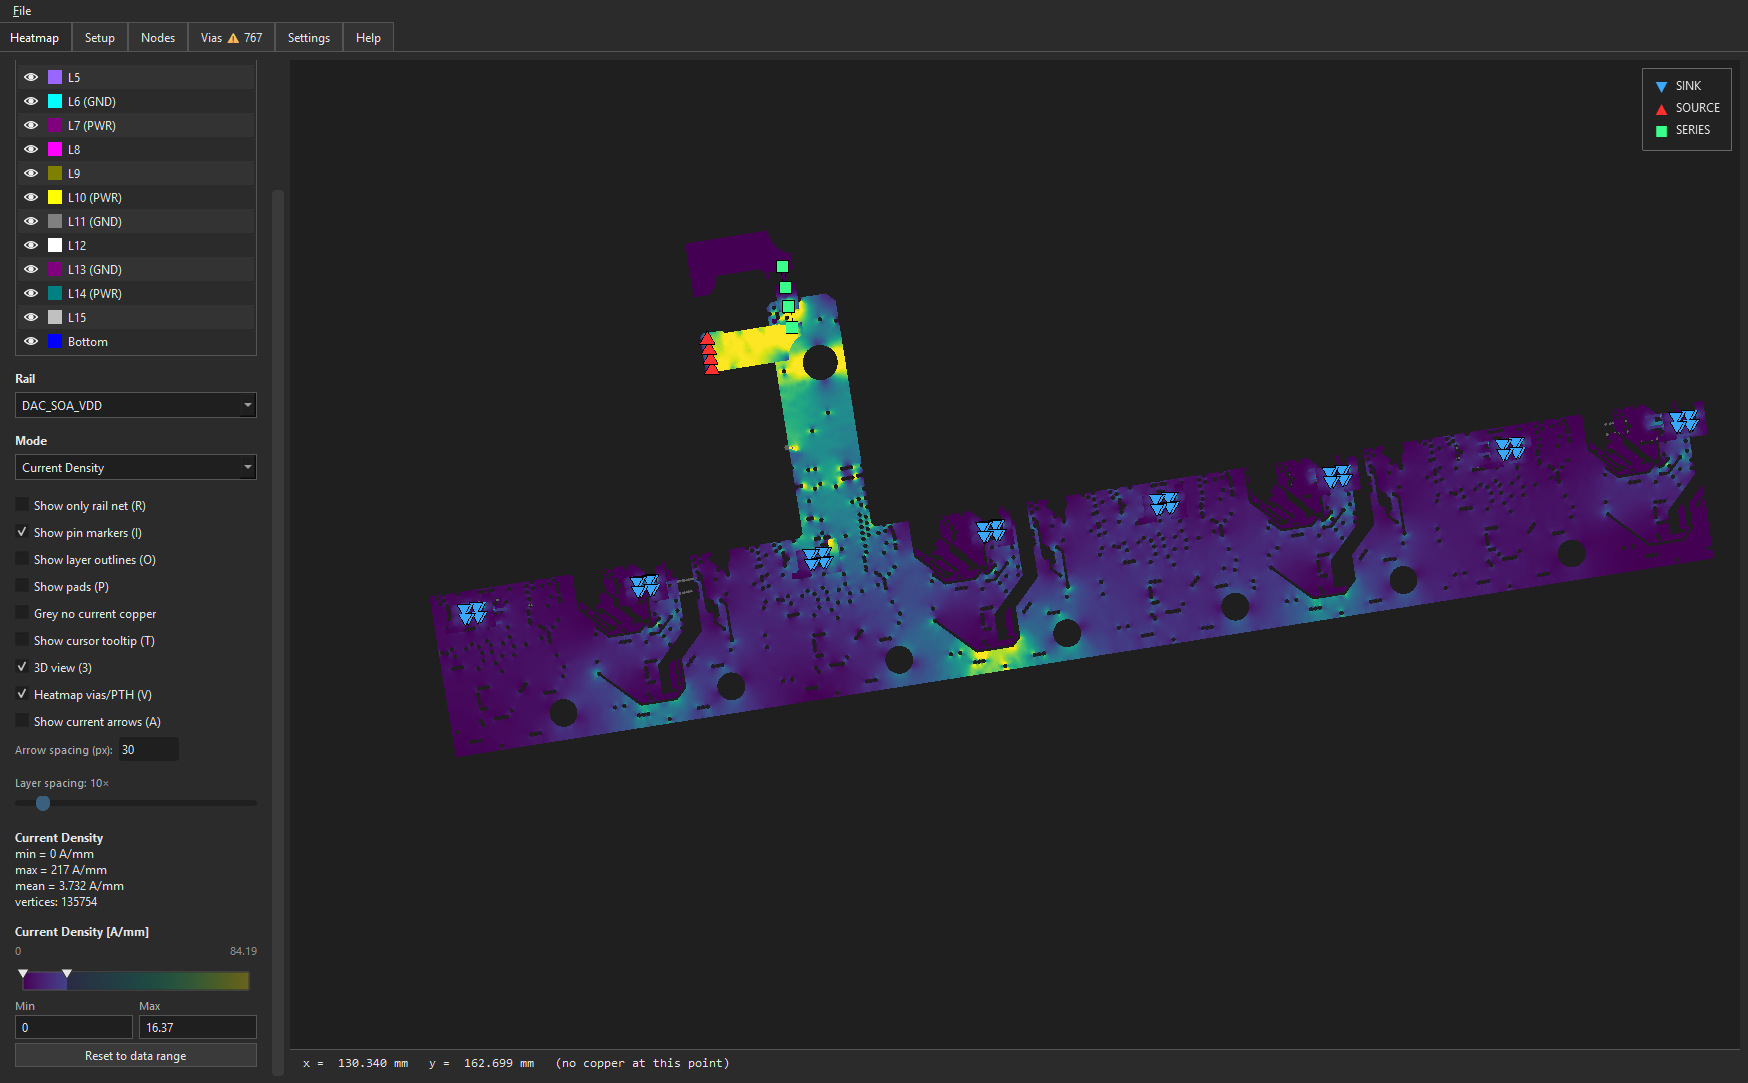
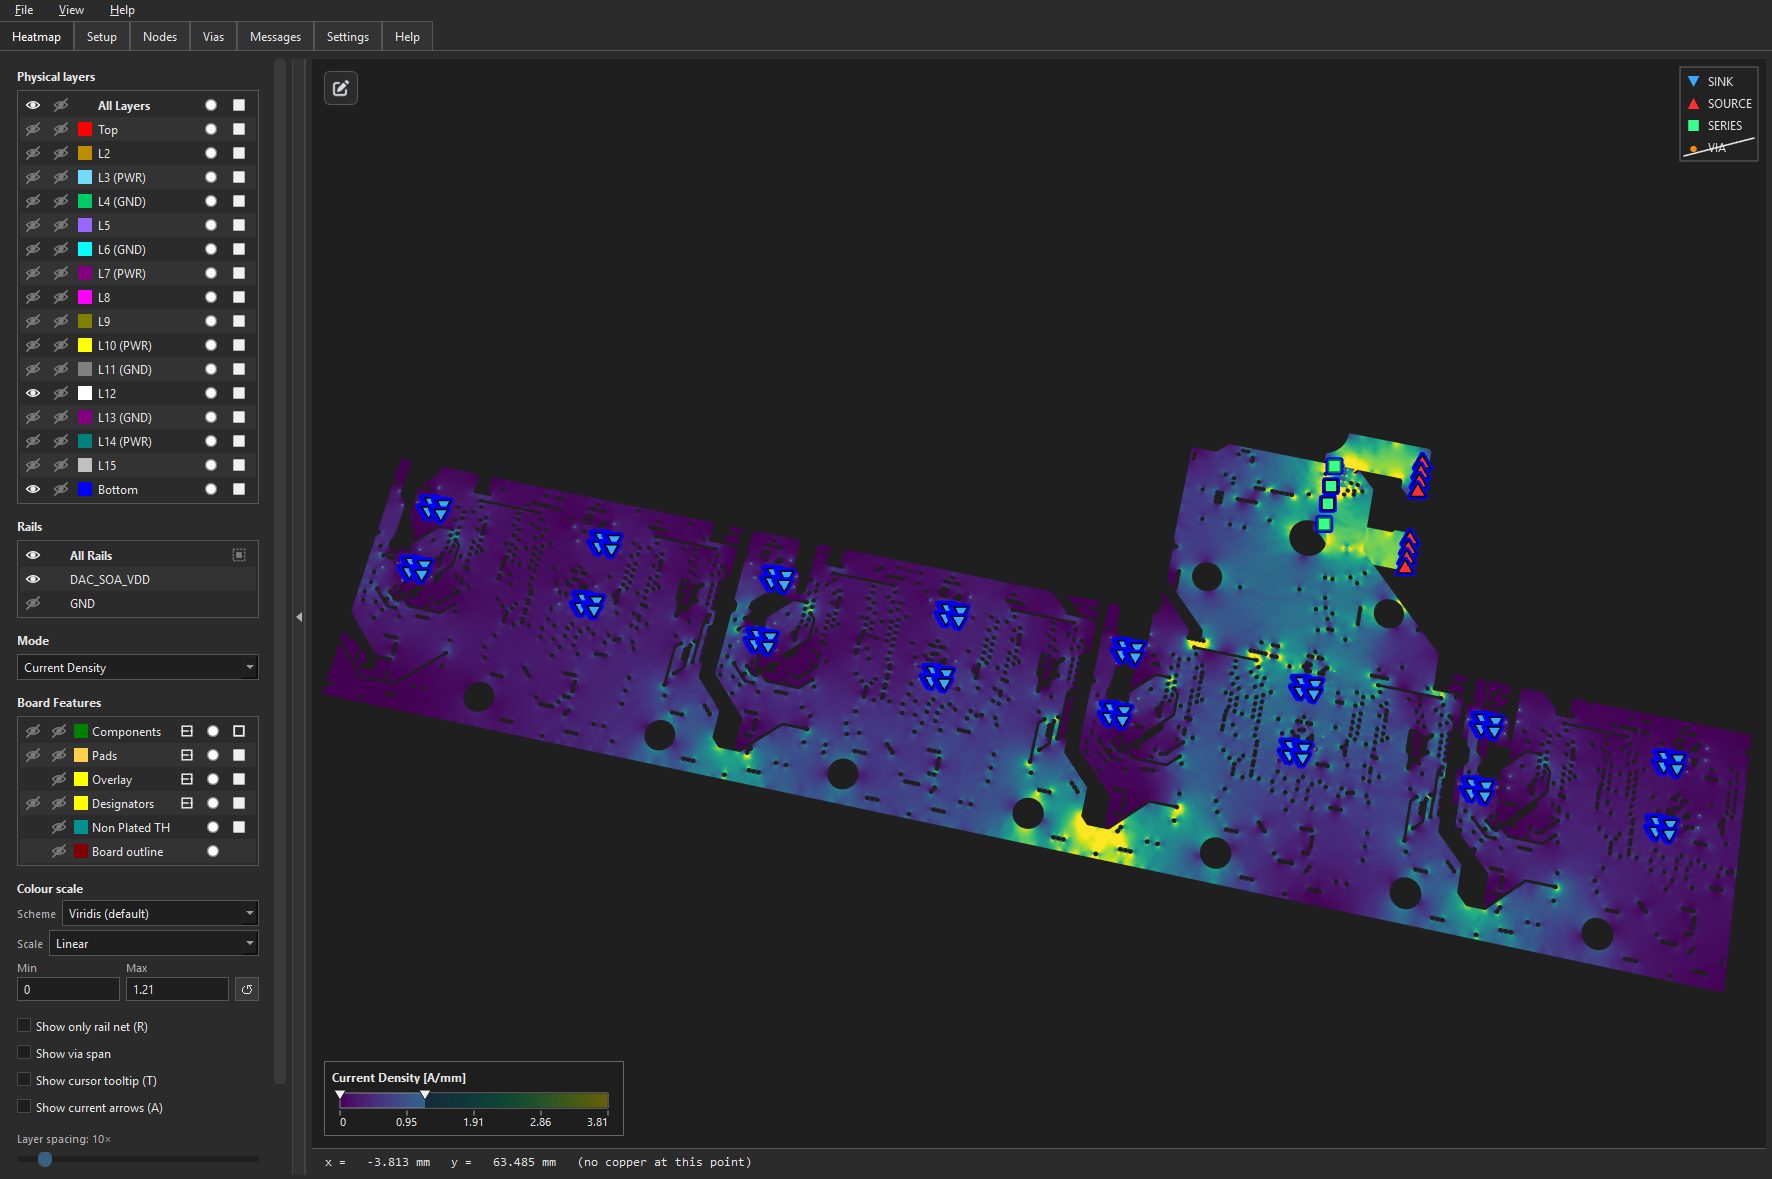
update help docs/user-guide/01-sources-and-sinks.md

diff --git a/fypa/altium_viewer.py b/fypa/altium_viewer.py
@@ -1395,7 +1395,7 @@ _N_NET_MARKER_EDGE = "#008000"
 # stroked around the marker (uniform on every edge), so the band hugs the
 # glyph evenly; the marker covers the inner half, leaving ~this many px of
 # layer colour showing beyond its own outline.
-_MARKER_LAYER_RING_W = 4
+_MARKER_LAYER_RING_W = 3
 
 
 def _overlay_ribbon_offsets(polyline, half_w: float, *,

diff --git a/docs/user-guide/01-sources-and-sinks.md b/docs/user-guide/01-sources-and-sinks.md
@@ -54,13 +54,11 @@ Net names must match the schematic exactly — same case, same punctuation.
 
 ## 1.2 Annotating a source
 
-Example: a 5 V barrel jack **J1**, with rails labelled `+5V` and `0V`.
+Example: a 5 V connector **J1**, with rails labelled `+5V` and `GND`.
 
 **Step 1 — Select J1 in the schematic.**
 
 Open the schematic sheet containing J1 and single-click the component body.
-
-![J1 selected in the schematic](screenshots/01-source-select.png)
 
 **Step 2 — Open the Parameters panel.**
 
@@ -76,35 +74,32 @@ Click **Add** below the parameter list and fill in each row:
 | Name        | Value     |
 |-------------|-----------|
 | `PDN_ROLE`  | `SOURCE`  |
-| `PDN_V`     | `5V`      |
-| `PDN_P_NET` | `+5V`     |
-| `PDN_N_NET` | `0V`      |
+| `PDN_V`     | `3V3`      |
+| `PDN_P_NET` | `+3V3`     |
+| `PDN_N_NET` | `GND`      |
 
 > `PDN_V` accepts plain numbers (`5`, `3.3`) or numbers with a `V` suffix
 > (`5V`, `3.3V`). `PDN_I` accepts `0.5`, `500mA`, `0.5A`. Either form
 > works.
 
-**Step 4 — Hide the parameters (optional).**
+The parameters do not have to be visible, they will be hidden by default
 
-Right-click each new parameter and toggle **Visible** off. FYPA still
-reads them; they just no longer clutter the schematic.
+![Parameters panel filled out](screenshots/02-source-params-panel_filled.png)
 
-![Visibility toggle](screenshots/01-source-visible-off.png)
-
-**Step 5 — Save the schematic** (`Ctrl+S`).
+**Step 4 — Save the schematic** (`Ctrl+S`).
 
 ## 1.3 Annotating a sink
 
-Example: a microcontroller **U5** drawing 500 mA from the `+5V` rail.
+Example: a microcontroller **U1** drawing 500 mA from the `+5V` rail.
 
-Select U5, open the Parameters panel, and add four rows:
+Select U1, open the Parameters panel, and add four rows:
 
 | Name        | Value     |
 |-------------|-----------|
 | `PDN_ROLE`  | `SINK`    |
 | `PDN_I`     | `500mA`   |
-| `PDN_P_NET` | `+5V`     |
-| `PDN_N_NET` | `0V`      |
+| `PDN_P_NET` | `+3V3`     |
+| `PDN_N_NET` | `GND`      |
 
 Save the schematic.
 
@@ -215,8 +210,6 @@ panel lists:
 - Every **rail** FYPA inferred from the `PDN_P_NET` / `PDN_N_NET` pairs
   (in this example, `+5V → 0V`).
 - A **Nodes** tab with one row per terminal pin and its solved voltage.
-
-![Viewer on first open](screenshots/01-viewer-first-open.png)
 
 Switching the display mode from *Voltage* to *Current Density* shows
 the current flow across the copper from source to sink.